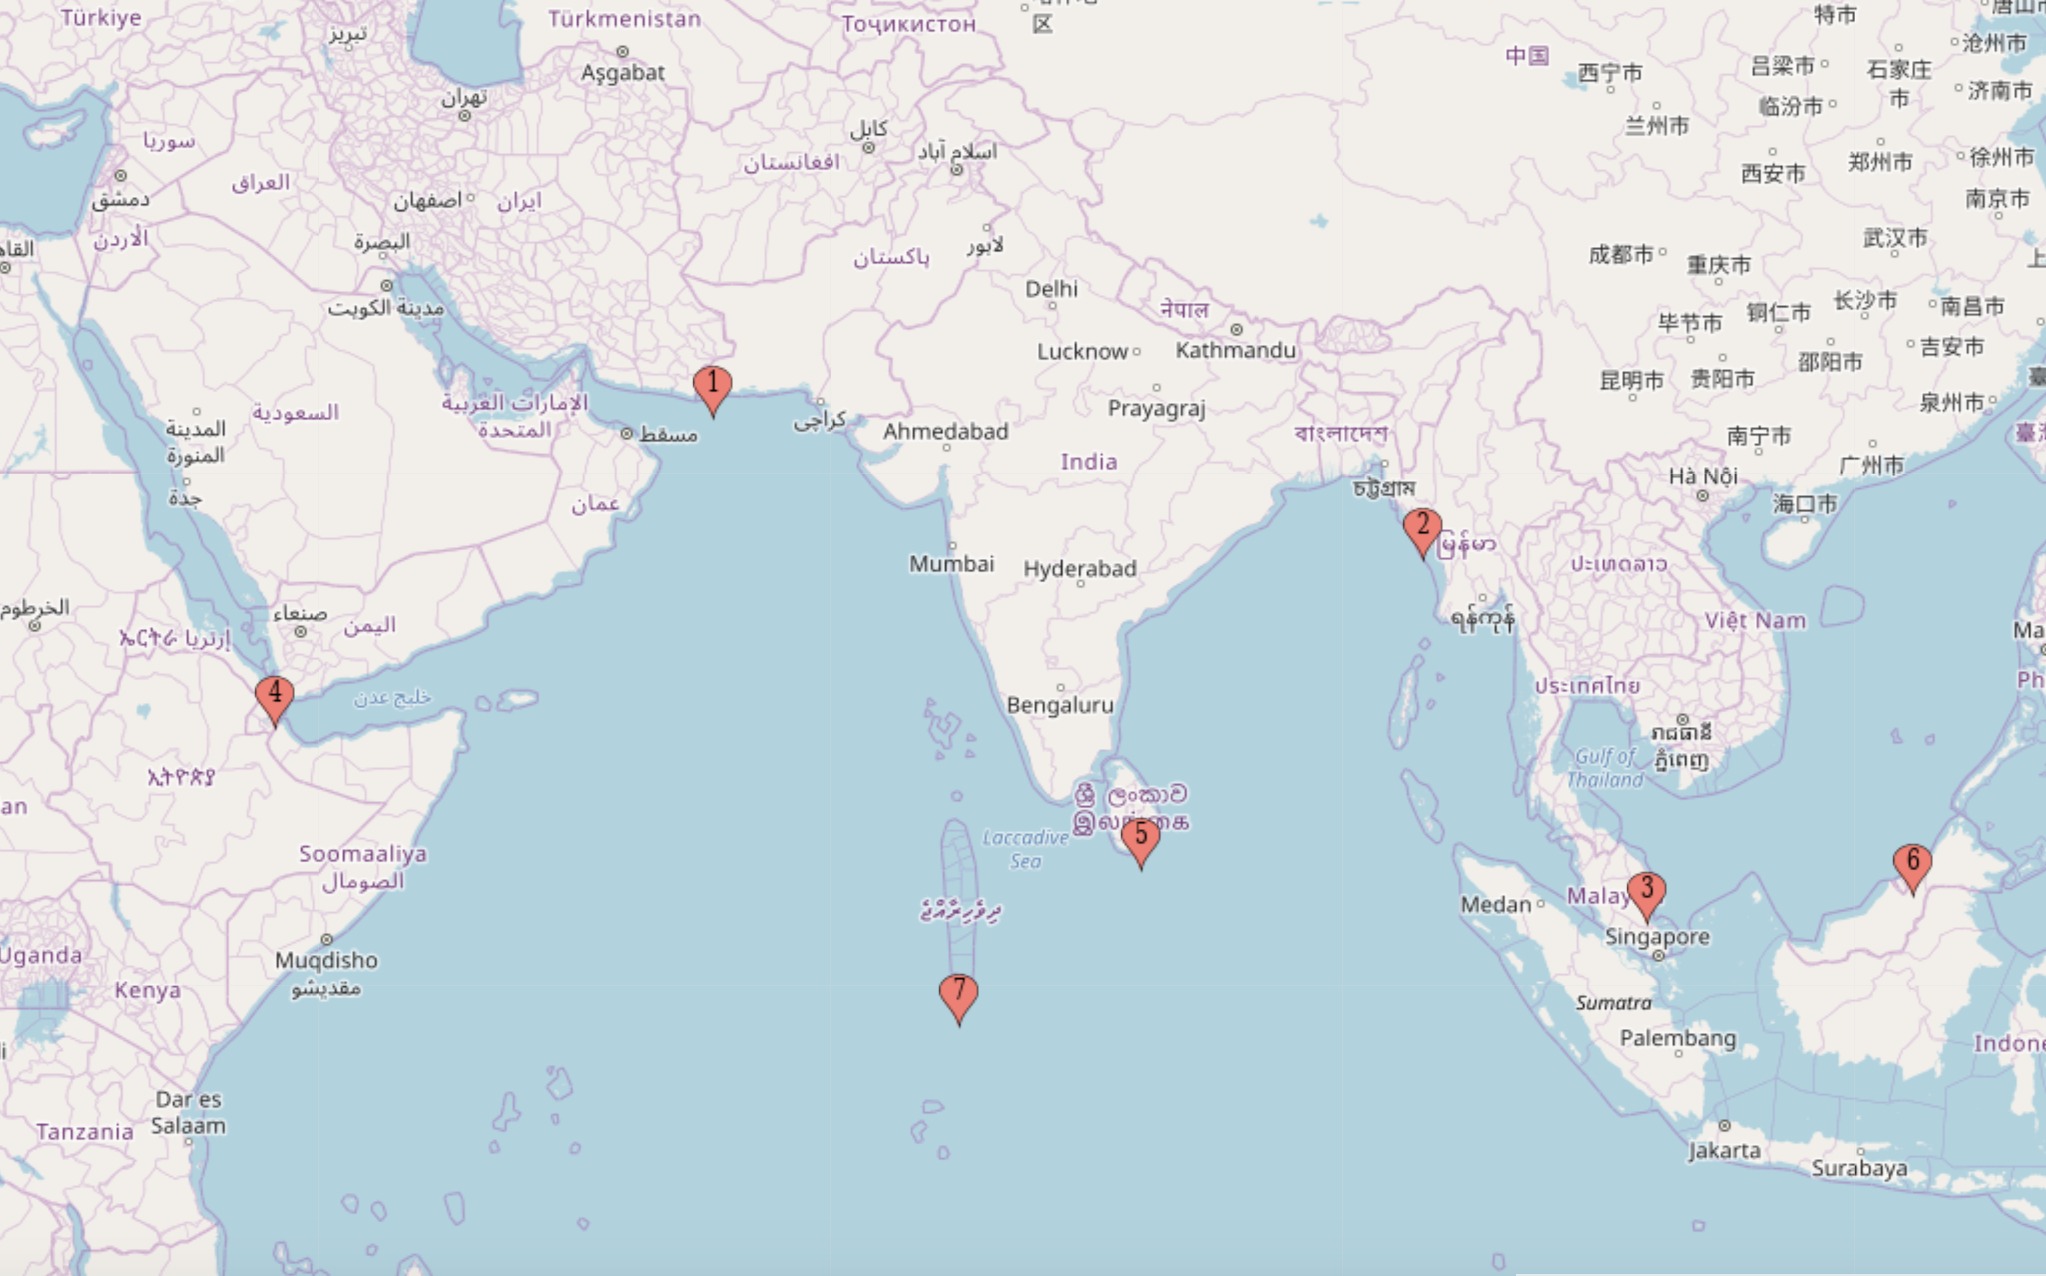
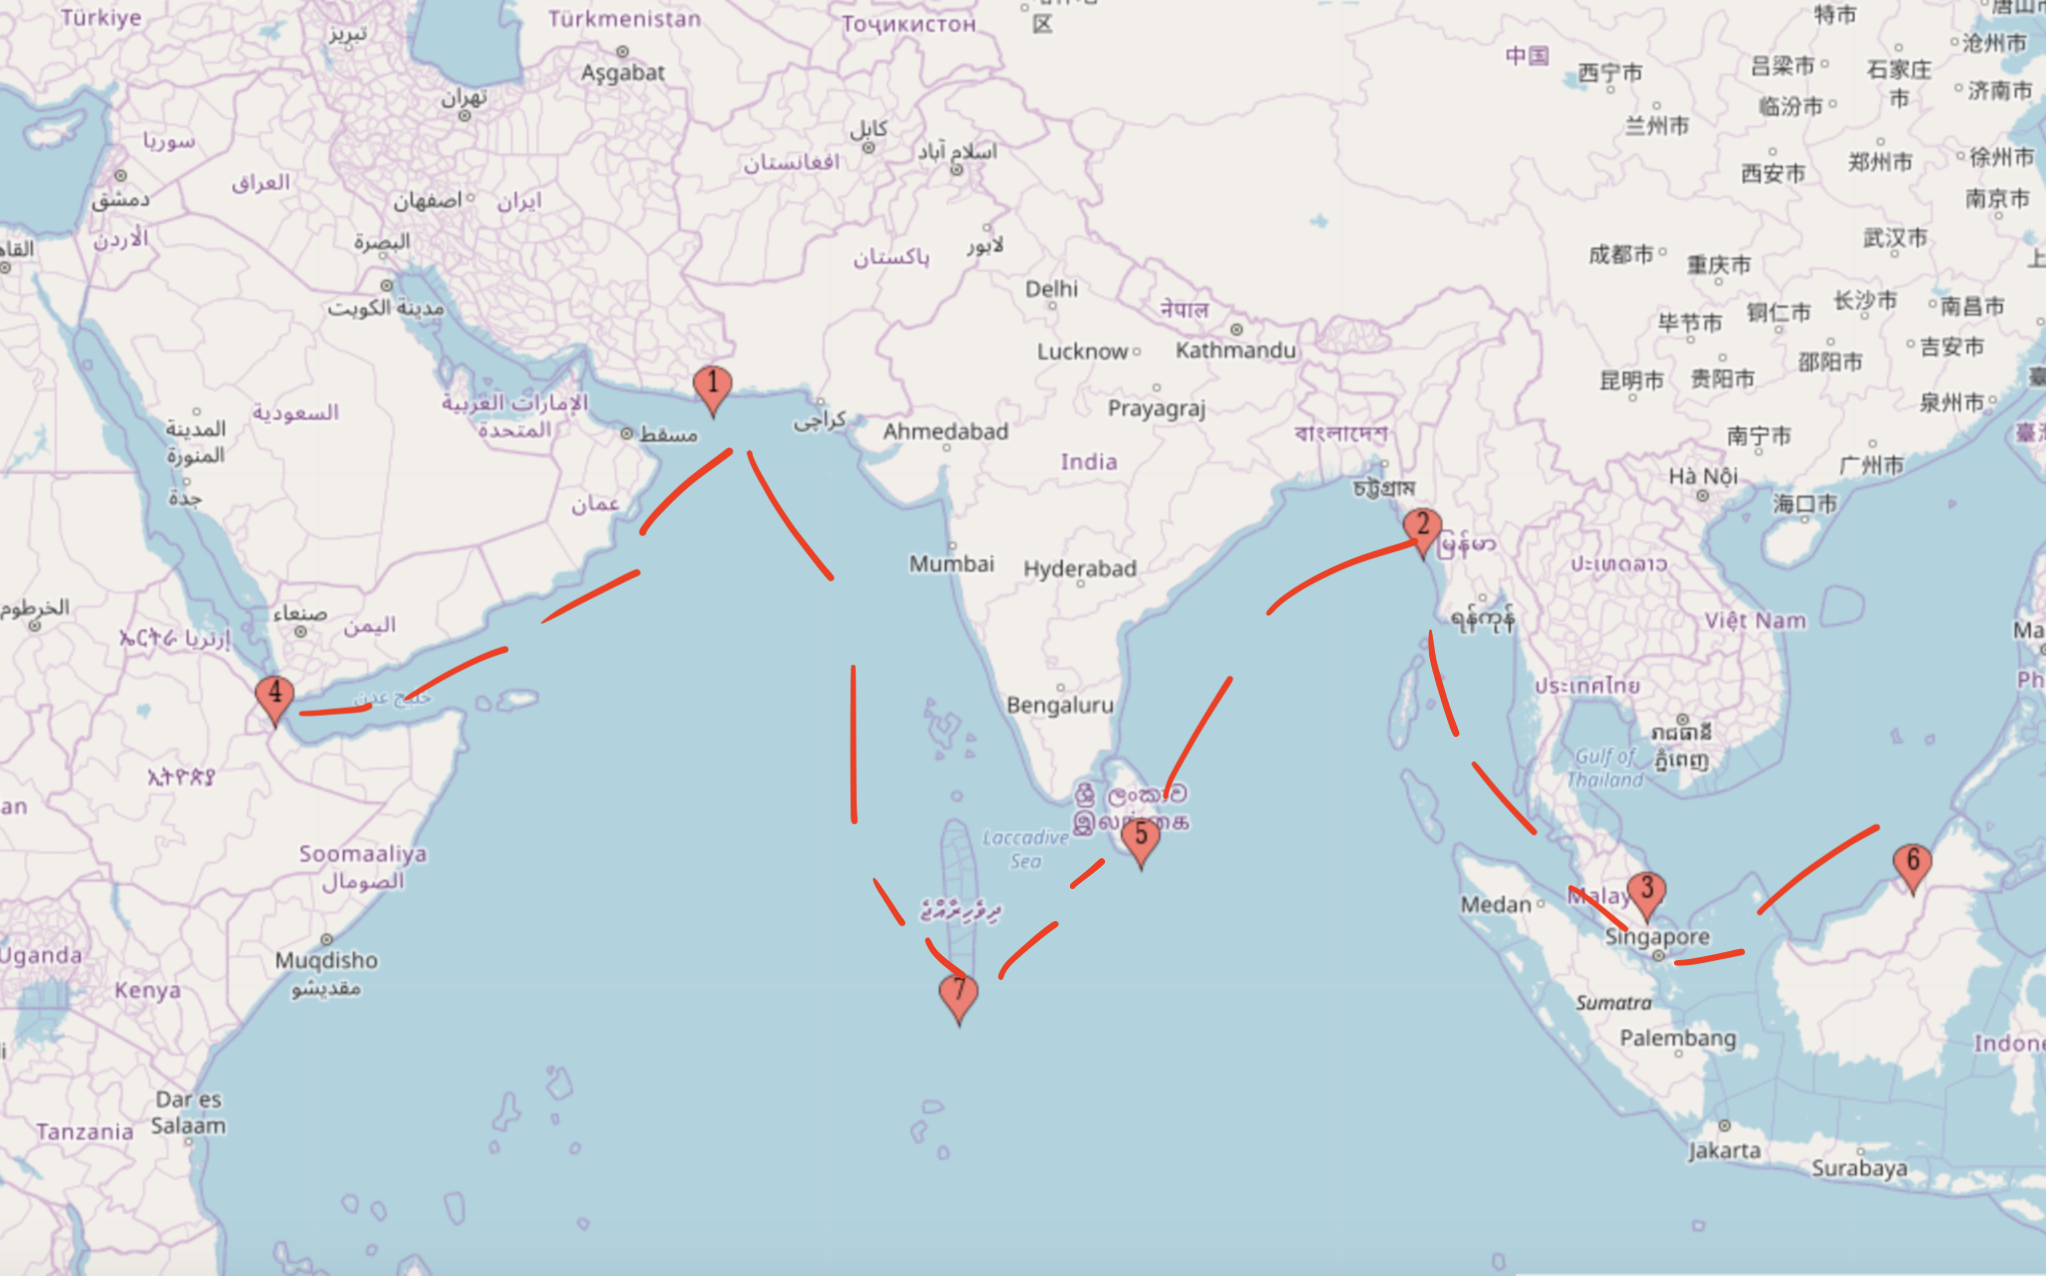
khanbaliq

diff --git a/straits/post2/post_2.md b/straits/post2/post_2.md
@@ -59,7 +59,7 @@ Putting this list onto a map helps explain China's thinking behind this strategy
 ![Maritime Map](./pearls.png)
 {:.image-caption}
 *<center>The locations of the ports along the Indian Ocean and South China Sea that the Chinese have negotiated leases for. All of these ports have either been constructed by the Chinese or received significant Chinese financial
-backing. The numbering in the picture matches the numbering in the above list.</center>* 
+backing. The red line is a rough indication of the String of Pearls, added for reference. The numbering in the picture matches the numbering in the above list. Graphic by yours truly.</center>* 
 
 Seeing these on a map of the Indian Ocean, the Chinese strategy of reestablishing a maritime Silk Road becomes even more apparent. Of special note is Chinese presence in Djibouti, which is its first overseas military base and is 
 strategically located right by the Bab-el Mandeb strait. While not as critical as Hormuz or Malacca, Bab-el Mandeb is nevertheless important due to its role as the entrance to the Red Sea and Gulf of Aqaba. It is worth making a quick mention here of the significant investment China is making in the whole of Africa, not just Djibouti. For example, China is financing in part the construction of Egypt’s new capital. Furthermore, the Mombasa-Nairobi Standard Gauge Railway (SGR) in Kenya, which at $3.6 billion is Kenya’s most expensive infrastructure project since investment, was built and is operated by Chinese companies (which hired 25000 Kenyan workers to actually build the railway). Therefore we see that on the broader Indian ocean front also China has begun to project both soft and hard power - the former in the form of economic assistance in building ports all along the Indian ocean and its extensive infrastructure development in Africa, and the latter as exemplified by its military base in Djibouti. 
